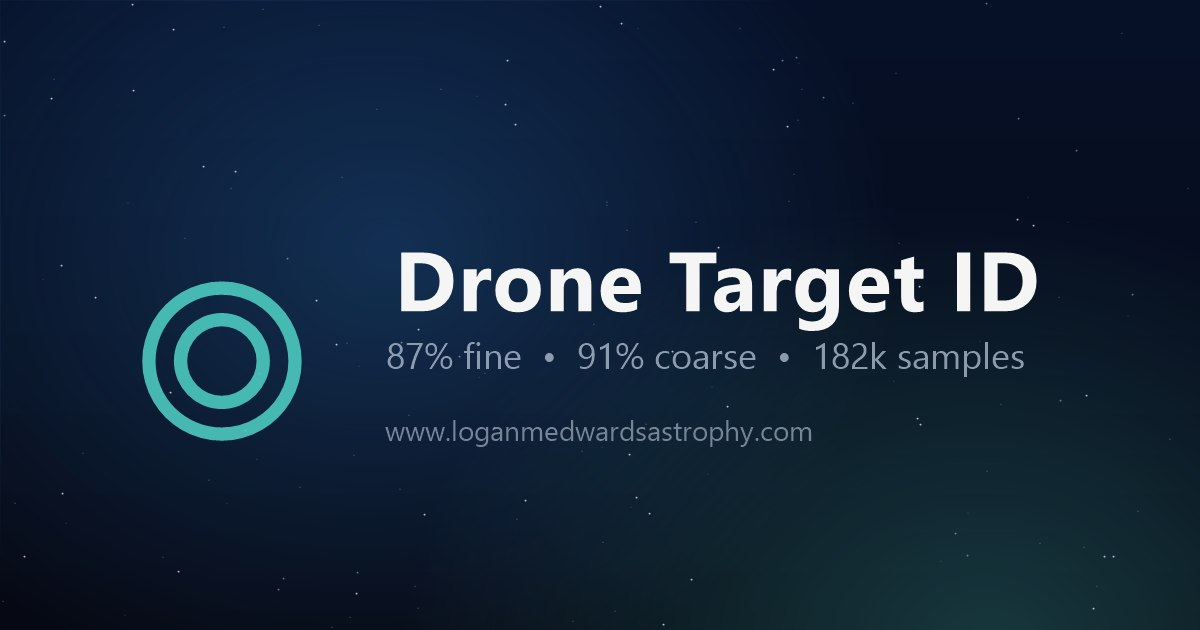
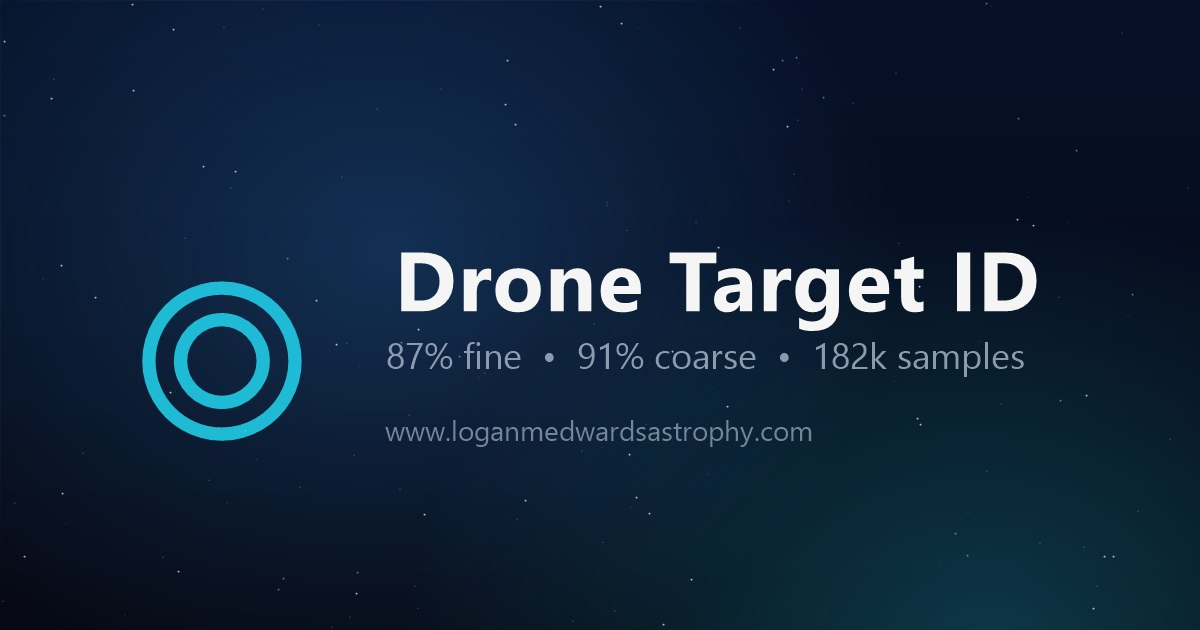
Recolor drone project accent to aqua-cyan
The drone card and AspireCURES card shared nearly the same teal hue
(~175 degrees), differing mainly in brightness, so they read as the same
color. Shift the drone accent from teal (79, 209, 197) to a brighter
aqua-cyan (34, 211, 238) that leans clearly toward cyan (~188 degrees),
keeping it in the same cool teal/cyan family but giving it a distinct
identity from AspireCURES's green-teal (30, 158, 150).

Updates the homepage card accent, the drone project page accent, and the
OG social-card generator, and regenerates og-drone.jpg.

Changed region(s): [[0.0925, 0.4524, 0.2775, 0.6937]]

diff --git a/css/_base.css b/css/_base.css
@@ -15,7 +15,8 @@
    throughout style.css to tint icon glows, hover halos, and media-band
    gradients. Each project card carries one of these modifier classes. */
 .project-card--teal {
-  --accent-rgb: 79, 209, 197;
+  /* Drone card — aqua-cyan; kept distinct from AspireCURES's green-teal. */
+  --accent-rgb: 34, 211, 238;
 }
 .project-card--blue {
   --accent-rgb: 99, 179, 237;

diff --git a/css/_project-pages.css b/css/_project-pages.css
@@ -5,7 +5,7 @@
 /* Page-level accent: set --accent-rgb on the body for project subpages so
    the chips below can pick up a project-matching glow. Falls back to blue. */
 .project-page--teal {
-  --accent-rgb: 79, 209, 197;
+  --accent-rgb: 34, 211, 238;
 }
 .project-page--blue {
   --accent-rgb: 99, 179, 237;
